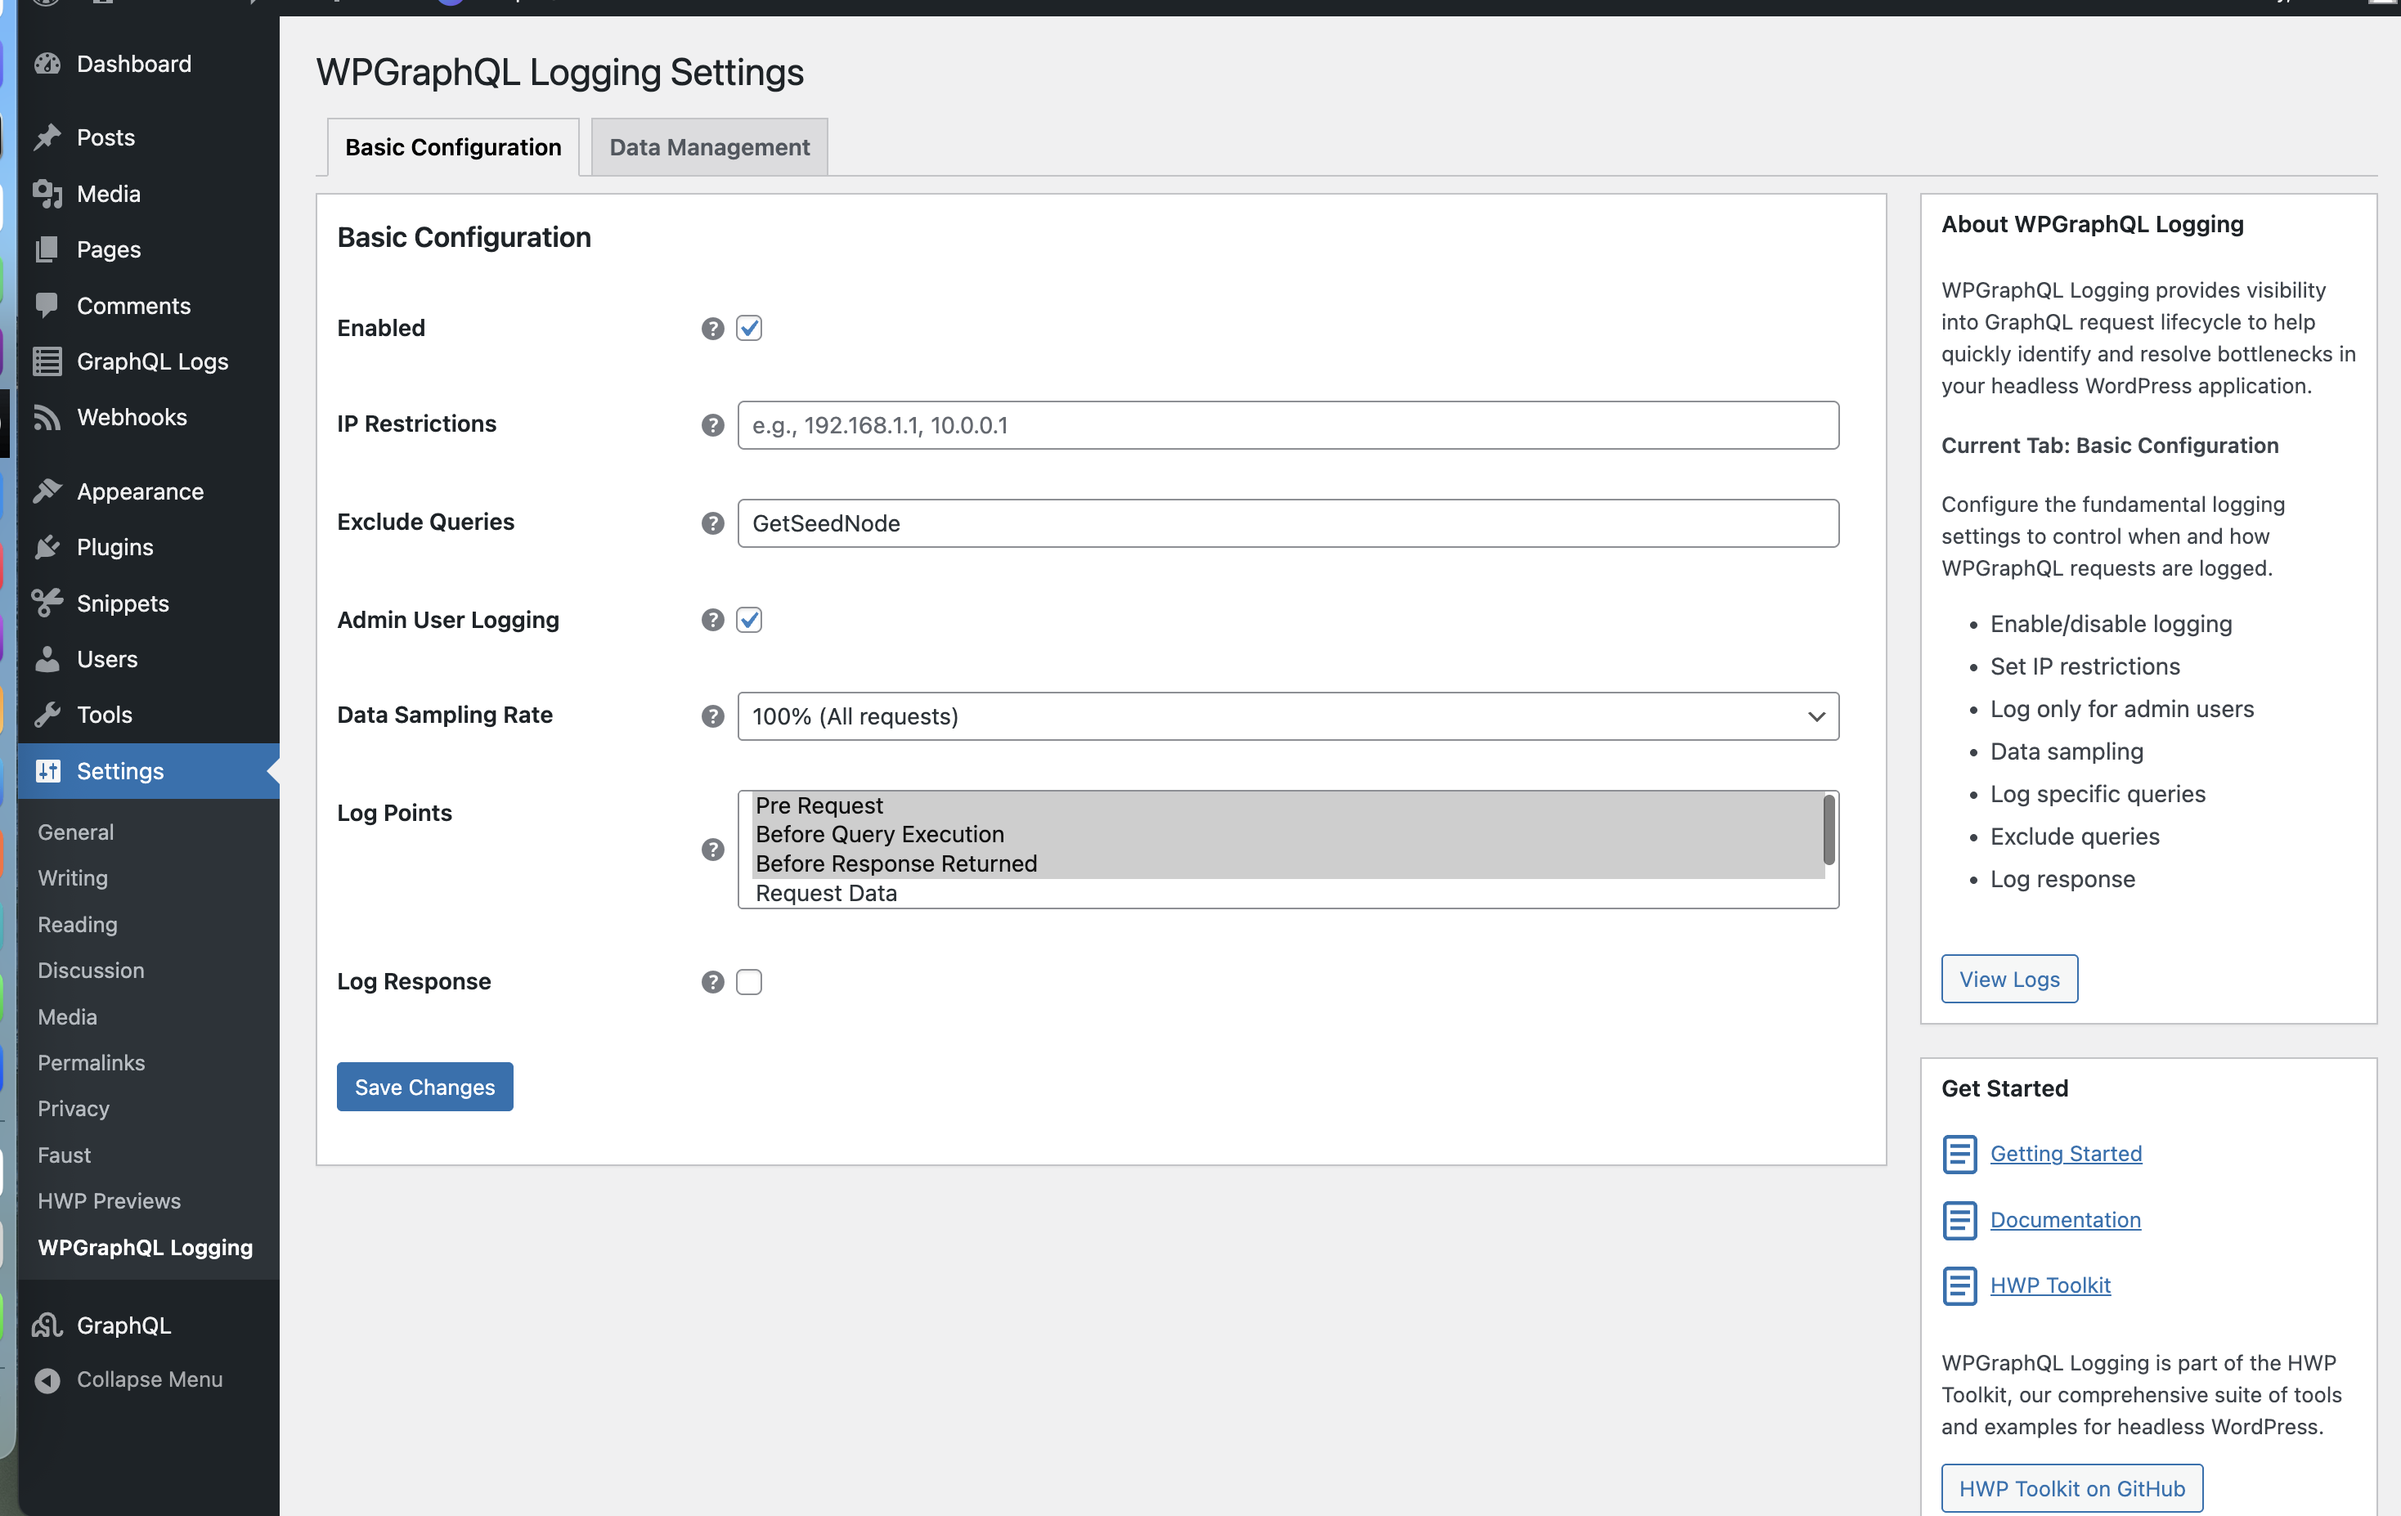
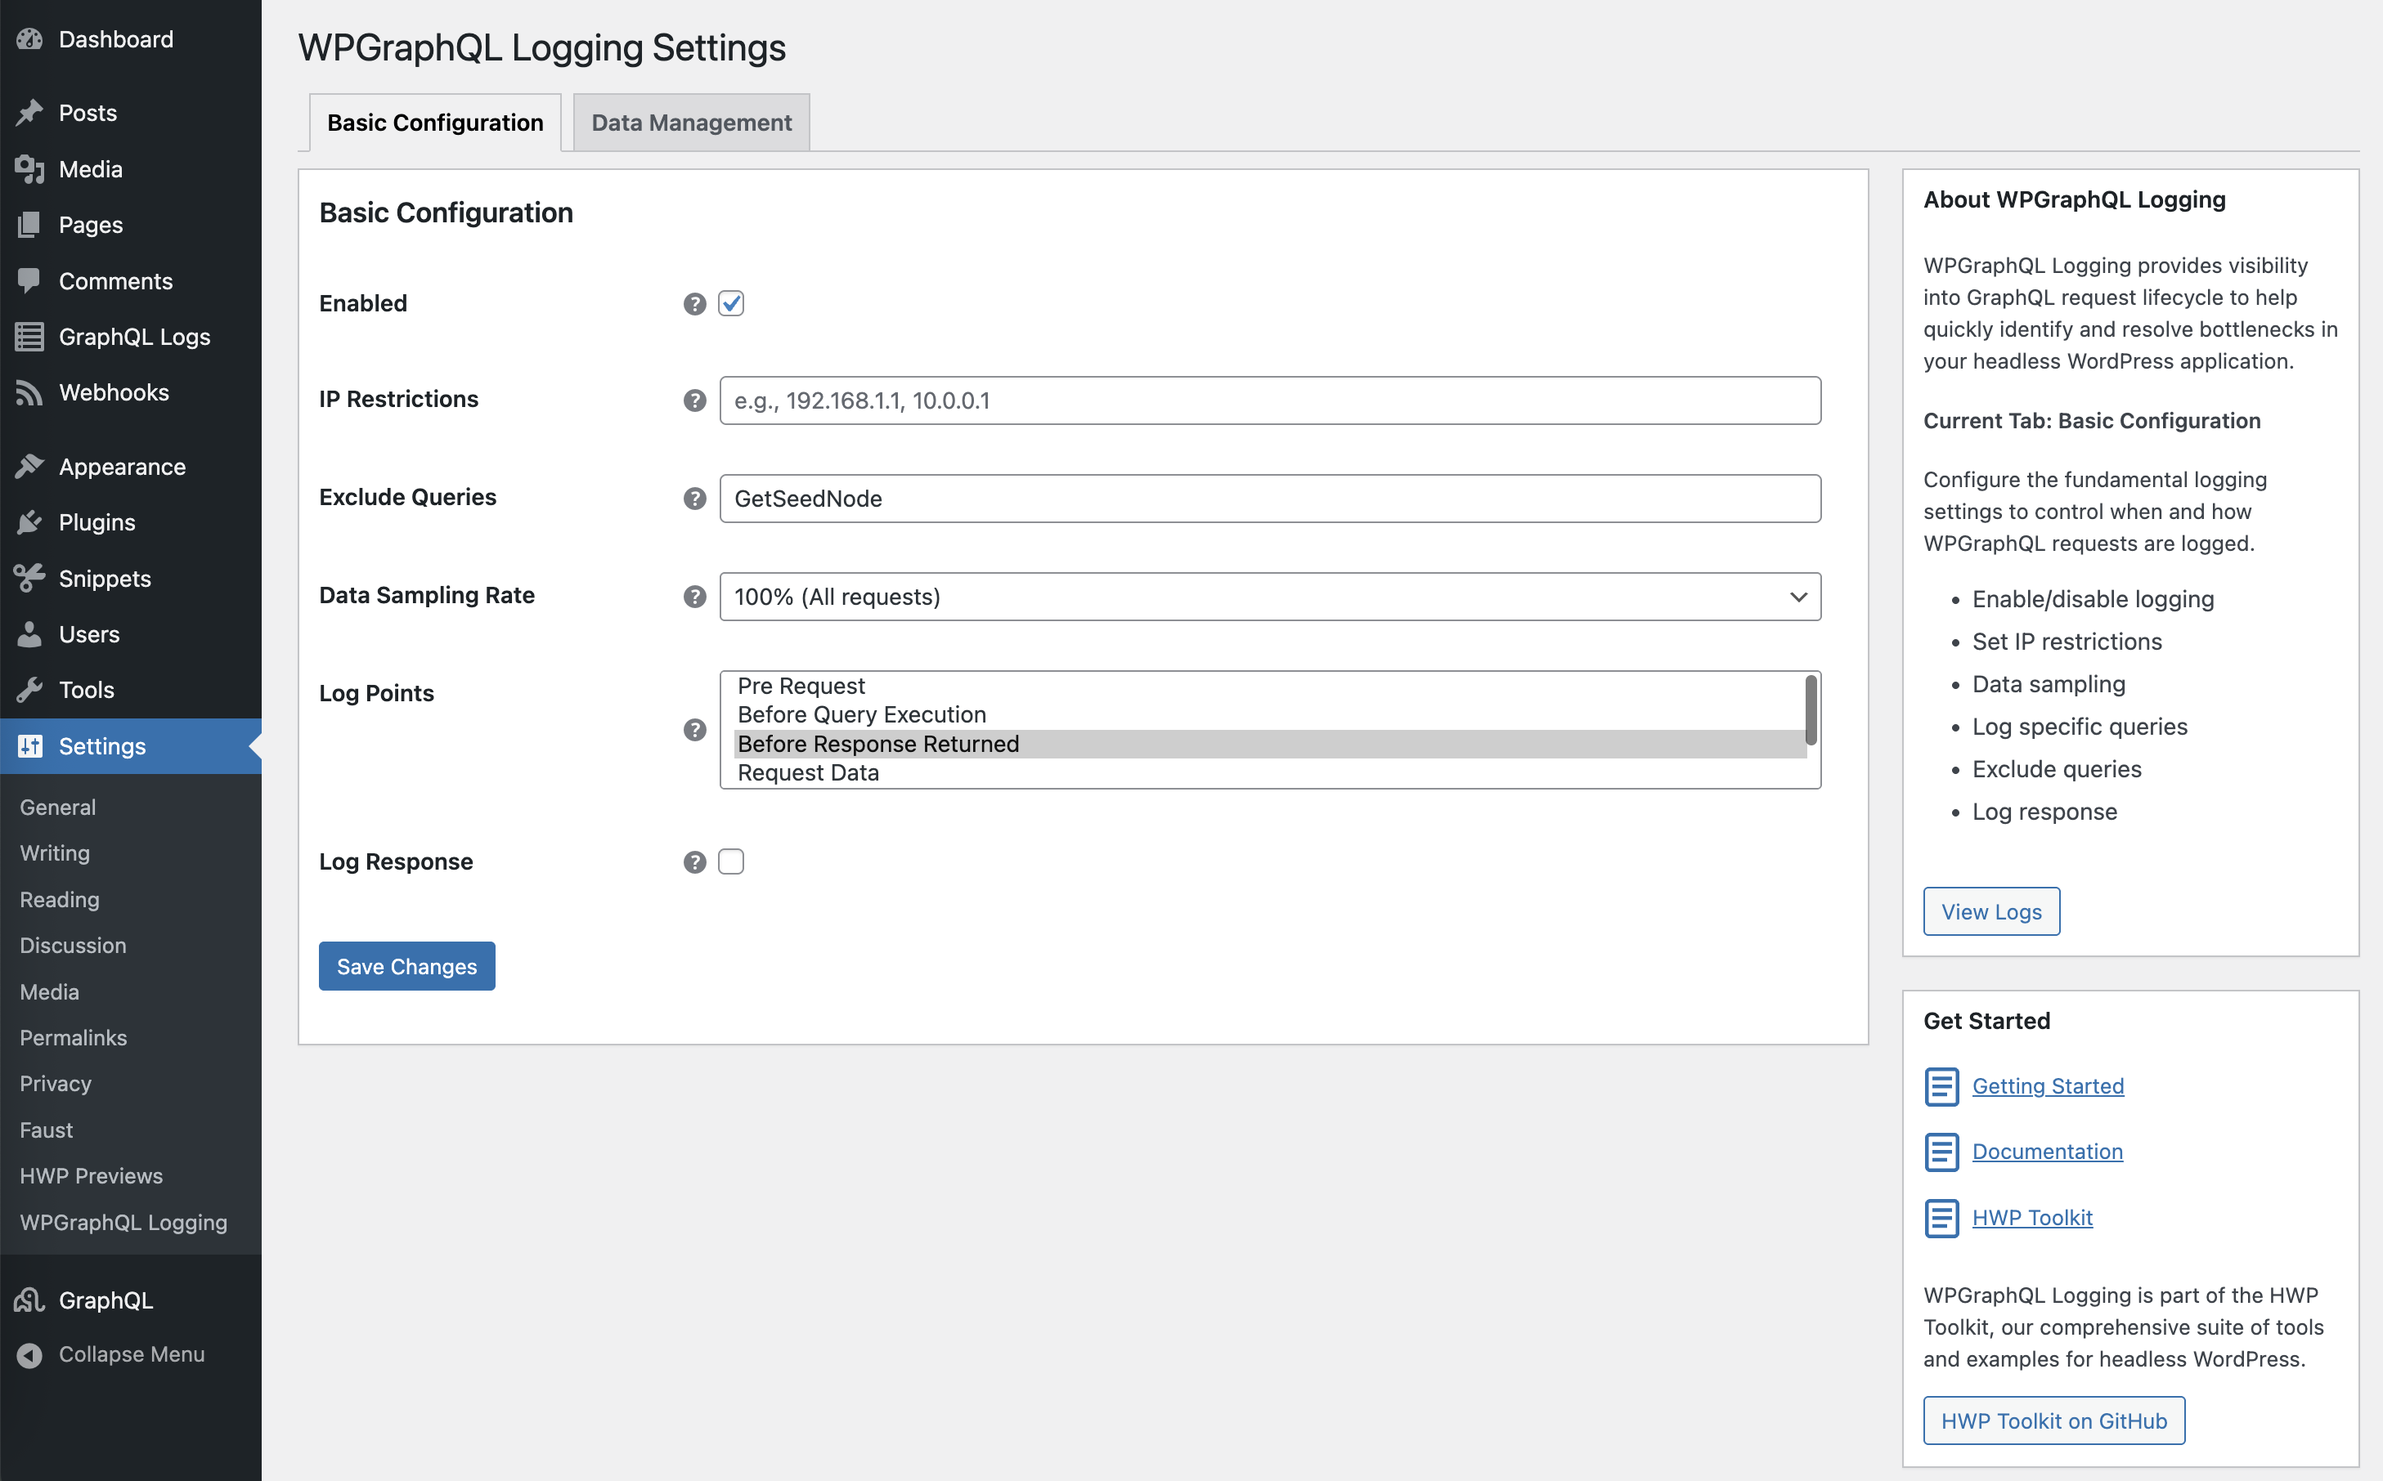
Removed admin user rule.
As some of the requests cannot detect correctly if the user is an admin. We removed this rule.

diff --git a/plugins/wpgraphql-logging/src/Admin/Settings/Fields/Tab/BasicConfigurationTab.php b/plugins/wpgraphql-logging/src/Admin/Settings/Fields/Tab/BasicConfigurationTab.php
@@ -39,13 +39,6 @@ class BasicConfigurationTab implements SettingsTabInterface {
 	public const DATA_SAMPLING = 'data_sampling';
 
 	/**
-	 * The field ID for the user-based logging select.
-	 *
-	 * @var string
-	 */
-	public const ADMIN_USER_LOGGING = 'admin_user_logging';
-
-	/**
 	 * The field ID for the log point selection select.
 	 *
 	 * @var string
@@ -98,14 +91,6 @@ class BasicConfigurationTab implements SettingsTabInterface {
 			'',
 			__( 'Comma-separated list of GraphQL query names to exclude from logging.', 'wpgraphql-logging' ),
 			__( 'e.g., __schema,GetSeedNode', 'wpgraphql-logging' )
-		);
-
-		$fields[ self::ADMIN_USER_LOGGING ] = new CheckboxField(
-			self::ADMIN_USER_LOGGING,
-			self::get_name(),
-			__( 'Admin User Logging', 'wpgraphql-logging' ),
-			'',
-			__( 'Log only for admin users.', 'wpgraphql-logging' )
 		);
 
 		$fields[ self::DATA_SAMPLING ] = new SelectField(

diff --git a/plugins/wpgraphql-logging/src/Logger/LoggingHelper.php b/plugins/wpgraphql-logging/src/Logger/LoggingHelper.php
@@ -5,7 +5,6 @@ declare(strict_types=1);
 namespace WPGraphQL\Logging\Logger;
 
 use WPGraphQL\Logging\Admin\Settings\Fields\Tab\BasicConfigurationTab;
-use WPGraphQL\Logging\Logger\Rules\AdminUserRule;
 use WPGraphQL\Logging\Logger\Rules\EnabledRule;
 use WPGraphQL\Logging\Logger\Rules\ExcludeQueryRule;
 use WPGraphQL\Logging\Logger\Rules\IpRestrictionsRule;
@@ -82,7 +81,6 @@ trait LoggingHelper {
 		$this->rule_manager->add_rule( new QueryNullRule() );
 		$this->rule_manager->add_rule( new SamplingRateRule() );
 		$this->rule_manager->add_rule( new EnabledRule() );
-		$this->rule_manager->add_rule( new AdminUserRule() );
 		$this->rule_manager->add_rule( new IpRestrictionsRule() );
 		$this->rule_manager->add_rule( new ExcludeQueryRule() );
 		apply_filters( 'wpgraphql_logging_rule_manager', $this->rule_manager );

diff --git a/plugins/wpgraphql-logging/src/Admin/Settings/Templates/admin.php b/plugins/wpgraphql-logging/src/Admin/Settings/Templates/admin.php
@@ -69,7 +69,6 @@ $wpgraphql_logging_tabs                 = (array) ( $wpgraphql_logging_tabs_conf
 										<ul class="wpgraphql-logging-feature-list">
 											<li><?php esc_html_e( 'Enable/disable logging', 'wpgraphql-logging' ); ?></li>
 											<li><?php esc_html_e( 'Set IP restrictions', 'wpgraphql-logging' ); ?></li>
-											<li><?php esc_html_e( 'Log only for admin users', 'wpgraphql-logging' ); ?></li>
 											<li><?php esc_html_e( 'Data sampling', 'wpgraphql-logging' ); ?></li>
 											<li><?php esc_html_e( 'Log specific queries', 'wpgraphql-logging' ); ?></li>
 											<li><?php esc_html_e( 'Exclude queries', 'wpgraphql-logging' ); ?></li>

diff --git a/plugins/wpgraphql-logging/docs/index.md b/plugins/wpgraphql-logging/docs/index.md
@@ -87,7 +87,6 @@ Once the plugin is activated, you can activate and configure the plugin under Se
 - **Enabled**: The master switch to turn logging on or off.
 - **IP Restrictions**: A comma-separated list of IPv4/IPv6 addresses. When set, only requests originating from these IPs will be logged. This is particularly useful for developers who wish to log only their own queries.
 - **Exclude Queries**: A comma-separated list of GraphQL query or mutation names to be excluded from logging. This helps reduce noise by ignoring frequent or uninteresting operations.
-- **Admin User Logging**: A toggle to control whether queries made by users with administrative privileges are logged.
 - **Data Sampling Rate**: A dropdown to select the percentage of requests that will be logged. This is useful for managing log volume on high-traffic sites by only capturing a sample of the total requests.
 - **Log Points**: A multi-select field to choose the specific WPGraphQL lifecycle events for which data should be logged.
 - **Log Response**: A toggle to determine whether the GraphQL response body should be included in the log. Disabling this can reduce the size of your log data.
